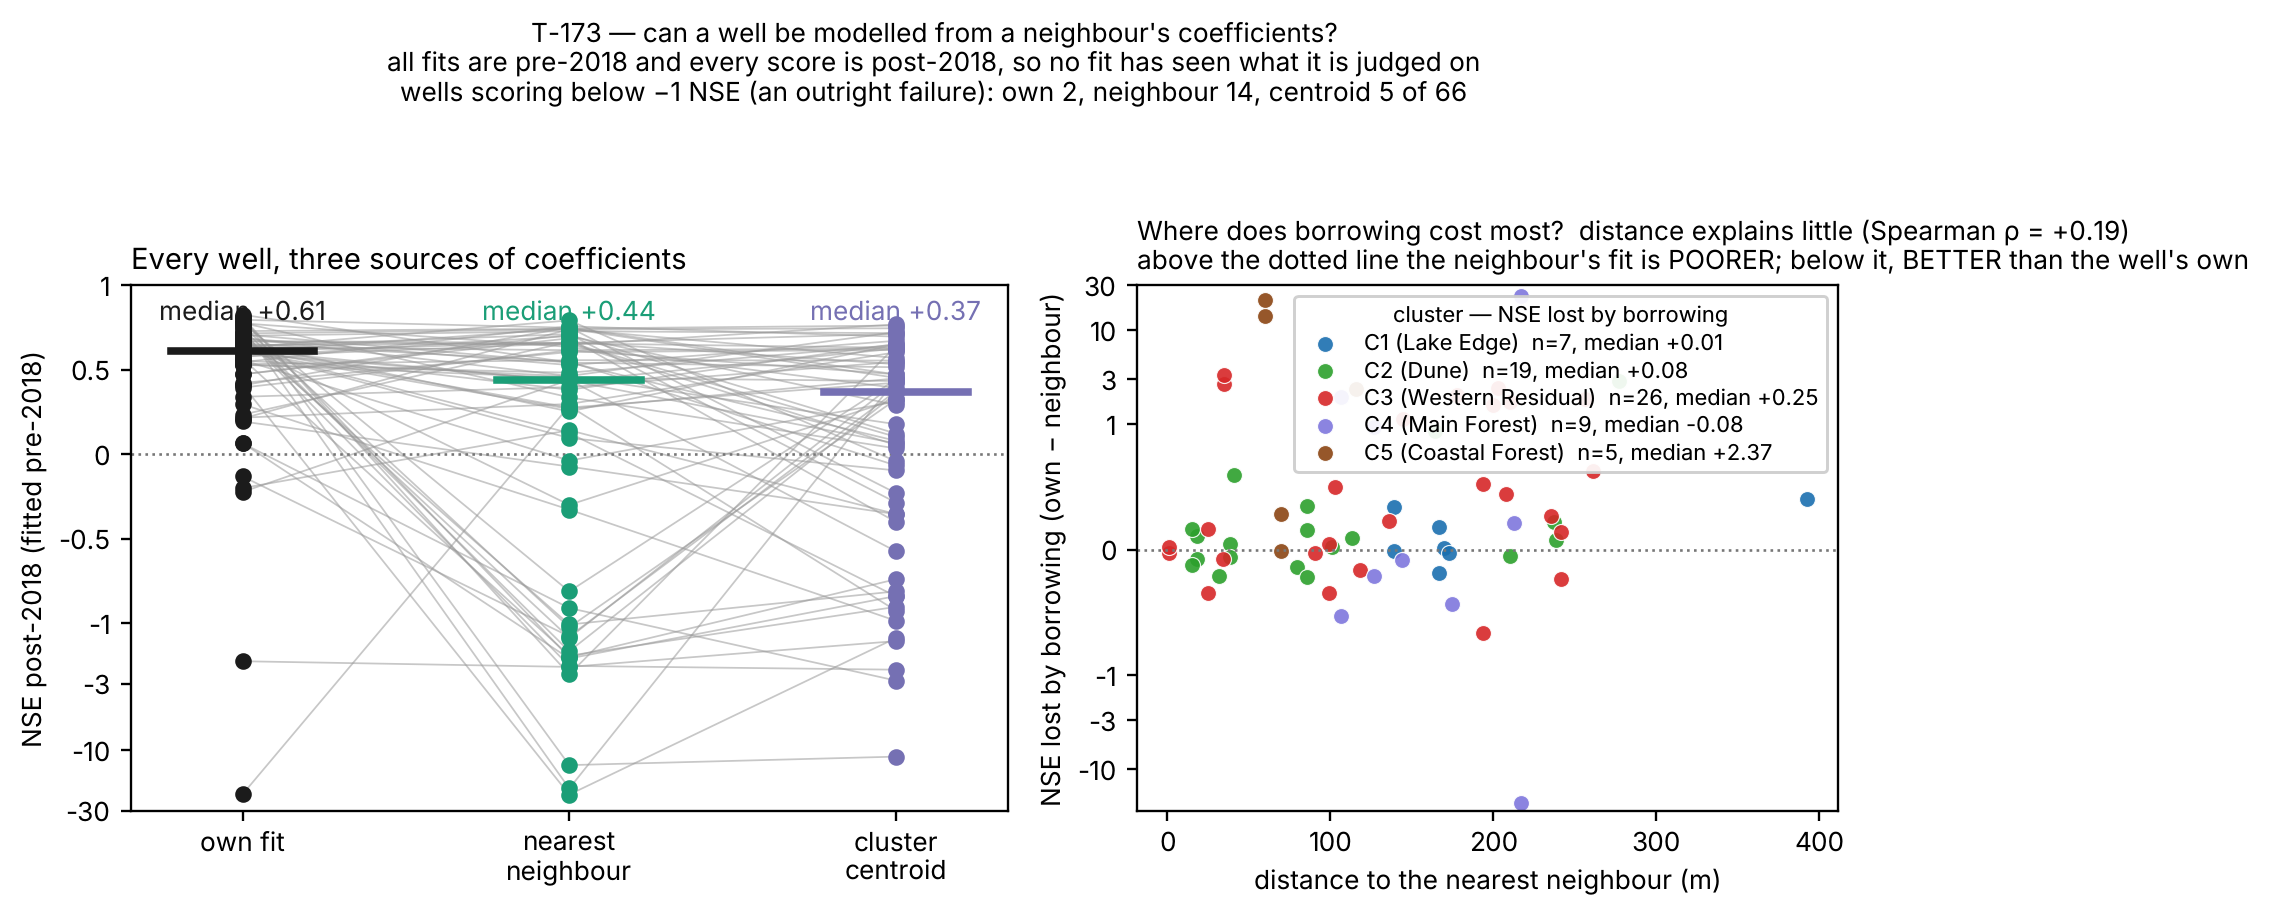
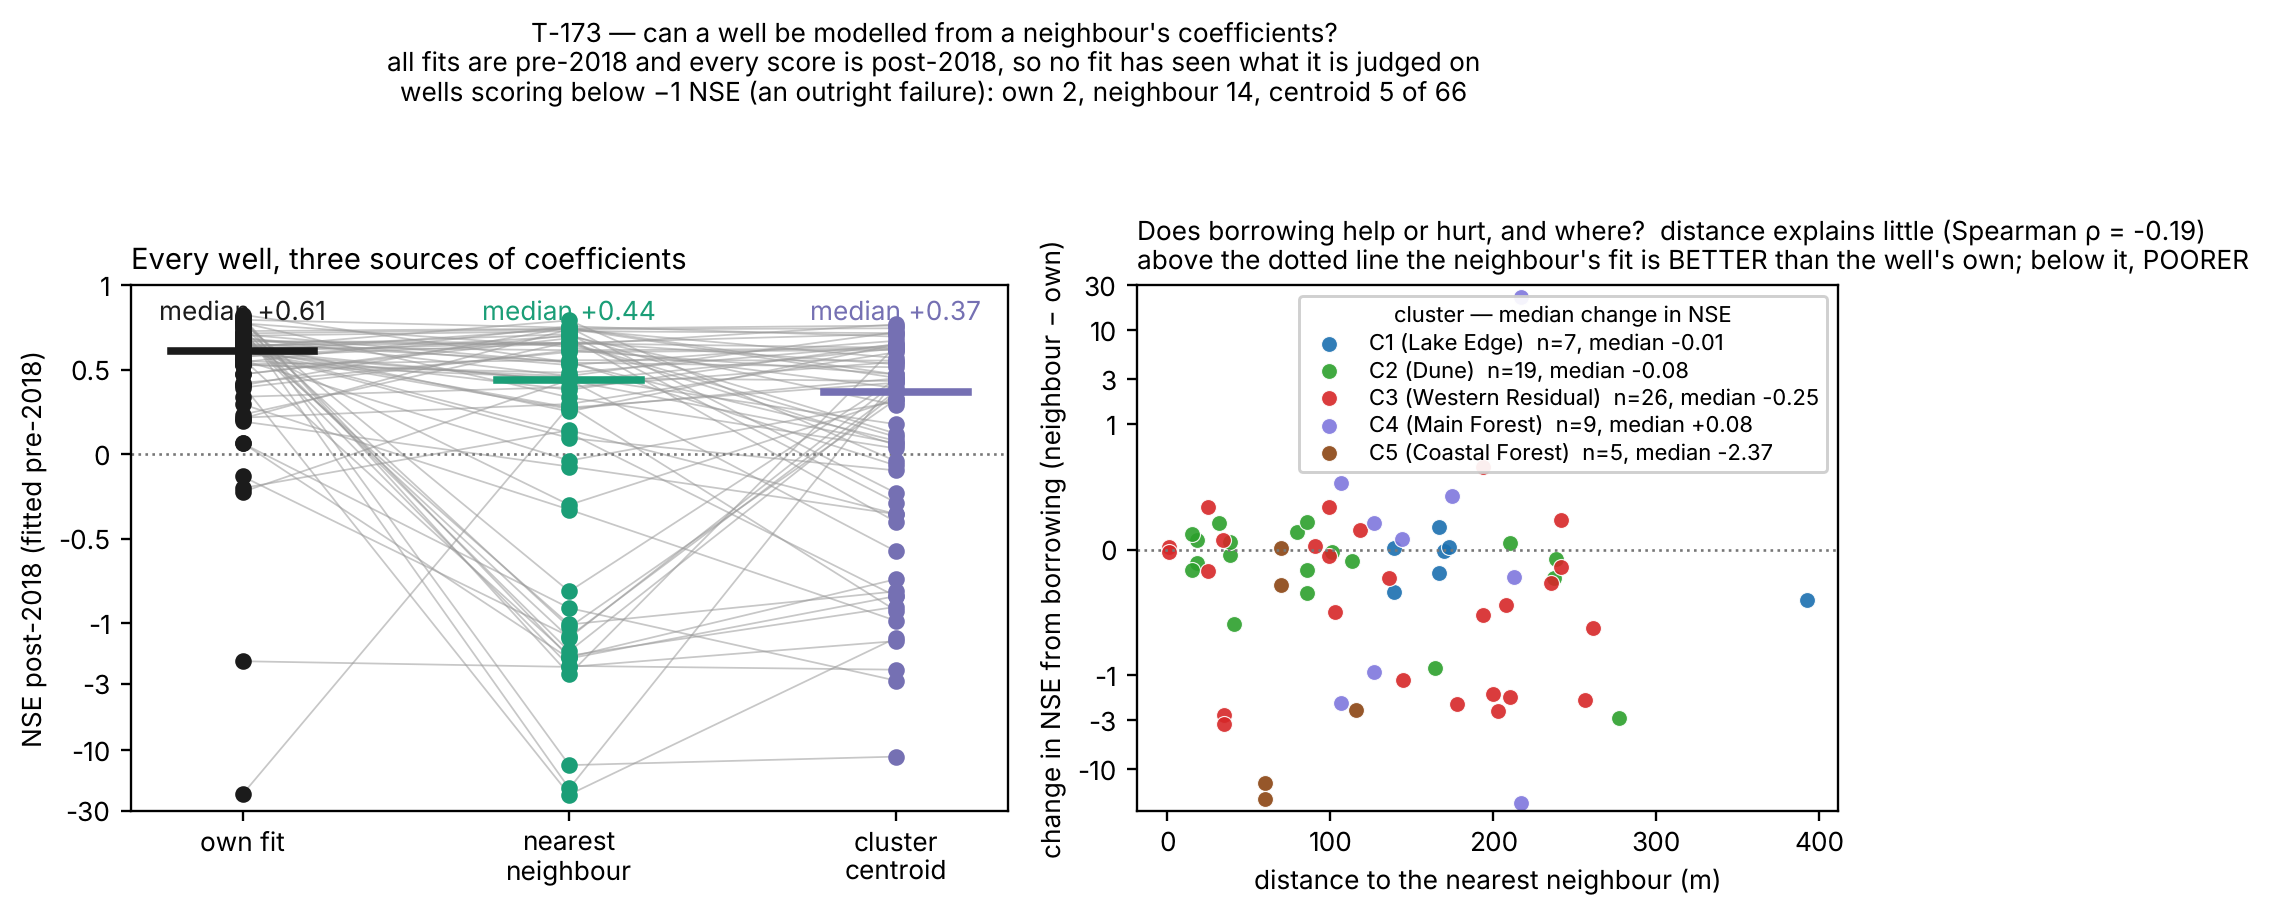
T-173 panel B: neighbour minus own, so an improvement reads positive
Martin: "we should swap own minus neighbour, so it reads, an improvement reads as a
positive change in NSE, not a negative change in NSE."

The axis was own - neighbour, which put a GAIN below the line -- the opposite of how a
skill axis is read, and it made the legend's medians read backwards too. It is now
neighbour - own throughout: the scatter, the per-cluster medians in the legend, the
Spearman correlation against distance (now -0.19, the same relationship with the sign of
the axis), the y-label, and the title's statement of which side is which.

Per-cluster medians, in the new sign:

  C4 Main Forest      n= 9  median +0.08  a neighbour's fit is marginally BETTER
  C1 Lake Edge        n= 7  median -0.01  borrowing is close to free
  C2 Dune             n=19  median -0.08
  C3 Western Residual n=26  median -0.25
  C5 Coastal Forest   n= 5  median -2.37  borrowing is expensive here

The title also stops asking "where does borrowing cost most?", which was a question the
old sign framed and the new axis no longer matches.

Claude-Session: https://claude.ai/code/session_0121bgnCdcRQCgYoSxKqcjMz

diff --git a/src/50_record_length.py b/src/50_record_length.py
@@ -1039,8 +1039,11 @@ def plot_neighbour_transfer(nbt) -> None:
     ax = axes[1]
     if "neighbour" in piv.columns and "distance_m" in nbt.columns:
         nb = nbt[nbt["source"] == "neighbour"].set_index("well")
+        # neighbour MINUS own, so an improvement reads as a POSITIVE change in NSE
+        # (Martin, 2026-11-08). The other way round a gain plotted below the line, which
+        # is the opposite of how anyone reads a skill axis.
         m = pd.DataFrame({"d": nb["distance_m"].reindex(piv.index),
-                          "loss": piv["own"] - piv["neighbour"],
+                          "gain": piv["neighbour"] - piv["own"],
                           "cluster": nb["cluster"].reindex(piv.index)}).dropna()
         # Coloured by CLUSTER (Martin, 2026-11-08: "indicate which side is a better fit and
         # which side is a poorer fit, so that we can see where the clusters actually end
@@ -1051,14 +1054,14 @@ def plot_neighbour_transfer(nbt) -> None:
             # the cluster's MEDIAN loss rides its legend entry: the question this panel is
             # asked is where the clusters end up, and a median answers it in one number
             # where a scatter of five points does not
-            ax.scatter(g["d"], g["loss"], s=30, alpha=0.9,
+            ax.scatter(g["d"], g["gain"], s=30, alpha=0.9,
                        color=CLUSTER_COLOURS.get(int(c), "#777777"),
                        edgecolors="white", linewidths=0.4,
                        label=f"{CLUSTER_LABELS.get(int(c), f'C{int(c)}')}  "
-                             f"n={len(g)}, median {g['loss'].median():+.2f}")
+                             f"n={len(g)}, median {g['gain'].median():+.2f}")
         ax.axhline(0.0, color="#777777", lw=0.9, ls=":")
         ax.set_yscale("symlog", linthresh=1.0, linscale=1.2)
-        _a = float(np.nanmax(np.abs(m["loss"].values))) if len(m) else 1.0
+        _a = float(np.nanmax(np.abs(m["gain"].values))) if len(m) else 1.0
         _lim = max(3.0, _a * 1.2)
         ax.set_ylim(-_lim, _lim)
         ax.set_yticks([-10, -3, -1, 0, 1, 3, 10, 30])
@@ -1071,18 +1074,18 @@ def plot_neighbour_transfer(nbt) -> None:
         # NOT in the ylabel: it is rotated 90 degrees, so arrow glyphs turn with it and the
         # two halves read bottom-to-top, which put "worse" at the bottom of a plot where
         # worse is at the top. The title cannot rotate and cannot collide with the legend.
-        ax.set_ylabel("NSE lost by borrowing (own \u2212 neighbour)", fontsize=9)
+        ax.set_ylabel("change in NSE from borrowing (neighbour \u2212 own)", fontsize=9)
         ax.tick_params(labelsize=9)
         # upper right: lower right sat on the "BELOW the line" label, and the upper-left
         # corner carries the "ABOVE" one
         ax.legend(fontsize=7.5, loc="upper right", framealpha=0.92, labelspacing=0.3,
-                  title="cluster \u2014 NSE lost by borrowing", title_fontsize=7.5)
+                  title="cluster \u2014 median change in NSE", title_fontsize=7.5)
         if len(m) > 2:
-            rho = m["d"].corr(m["loss"], method="spearman")   # ALL wells, not a clipped view
-            ax.set_title("Where does borrowing cost most?  distance explains little "
-                         f"(Spearman \u03c1 = {rho:+.2f})\n"
-                         "above the dotted line the neighbour's fit is POORER; "
-                         "below it, BETTER than the well's own",
+            rho = m["d"].corr(m["gain"], method="spearman")   # ALL wells, not a clipped view
+            ax.set_title("Does borrowing help or hurt, and where?  distance explains "
+                         f"little (Spearman \u03c1 = {rho:+.2f})\n"
+                         "above the dotted line the neighbour's fit is BETTER than the "
+                         "well's own; below it, POORER",
                          fontsize=9, loc="left")
 
     fig.suptitle("T-173 — can a well be modelled from a neighbour's coefficients?\n"
